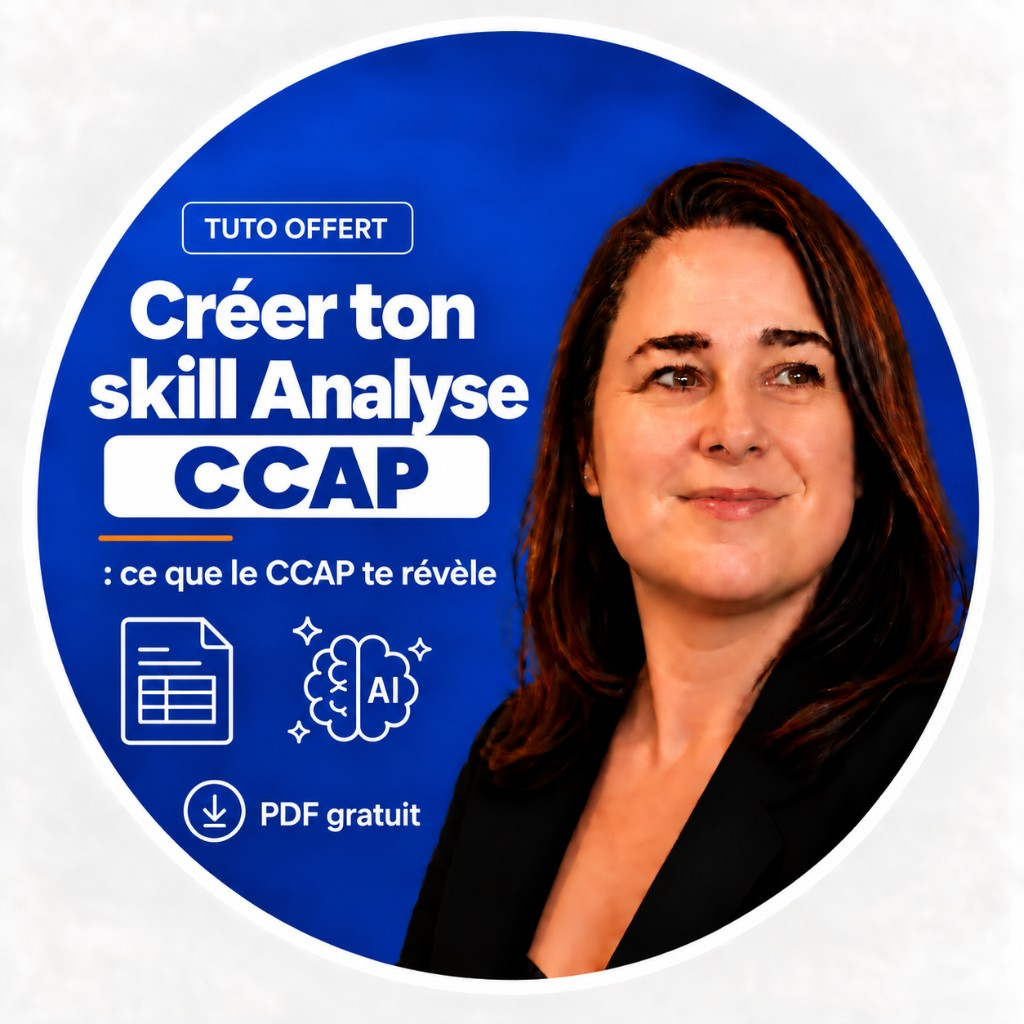
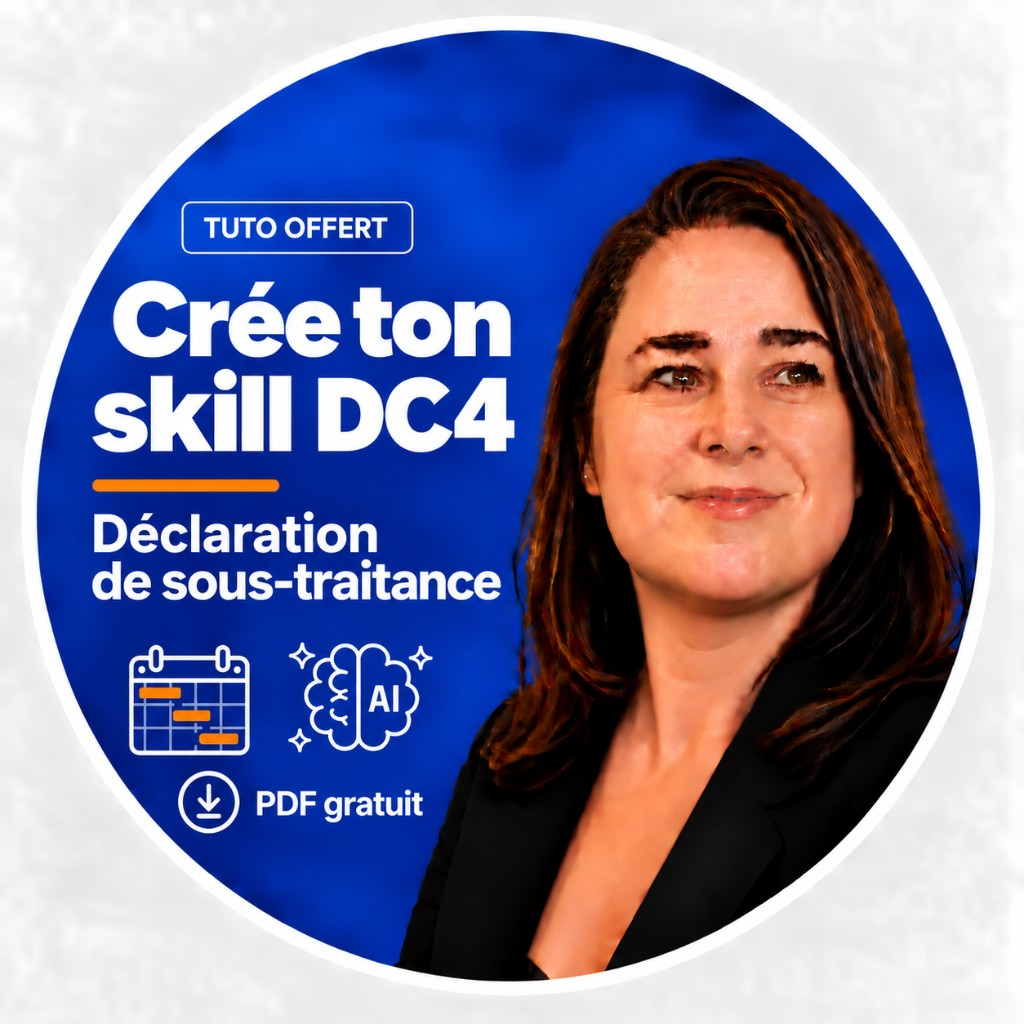
Met à jour la miniature du tuto skill DC4 sous-traitance.
Nouveau visuel carte hub / page tuto et alt SEO aligné.

diff --git a/lib/ressources-miniatures.ts b/lib/ressources-miniatures.ts
@@ -148,7 +148,7 @@ export const RESSOURCES_MINIATURES = {
   },
   tutoDc4: {
     src: `${BASE}/miniature-tuto-skill-dc4-ofc.jpg`,
-    alt: 'Créer un skill DC4 sous-traitance — tuto offert PDF gratuit, formation IA BTP',
+    alt: 'Tuto offert skill DC4 déclaration de sous-traitance — PDF gratuit, formation IA BTP',
     width: 1024,
     height: 1024,
   },
